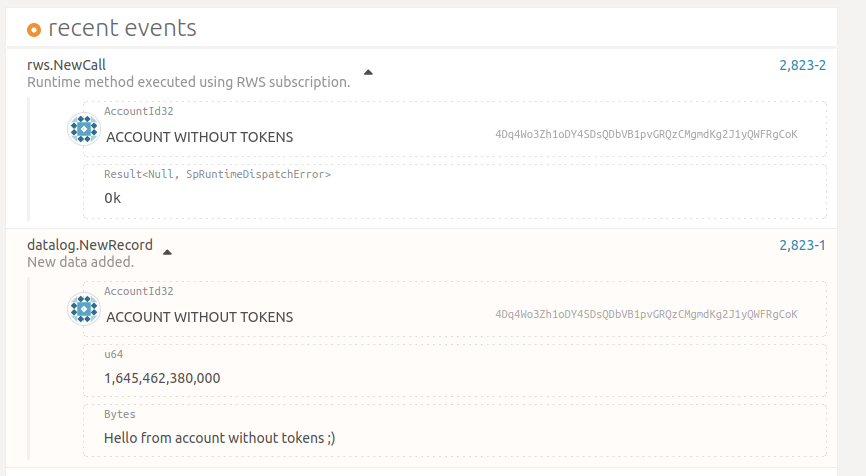
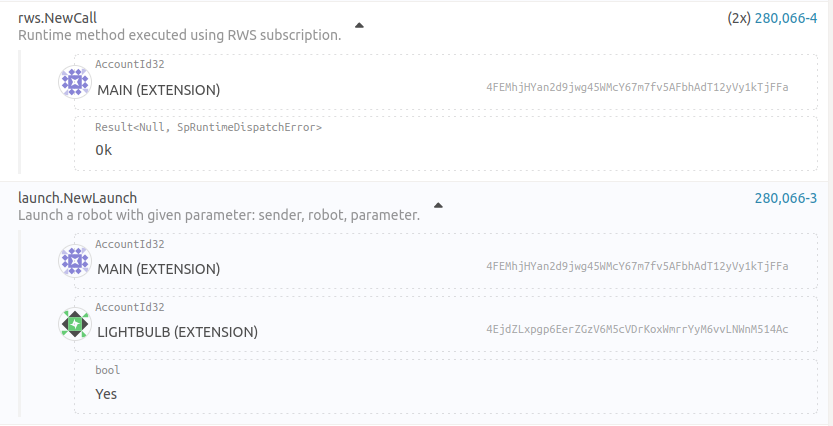
subscription launch

diff --git a/docs/es/subscription-launch.md b/docs/es/subscription-launch.md
@@ -1,0 +1,16 @@
+---
+title: How to Send Launch with Subscription
+contributors: [LoSk-p]
+translated: false
+---
+
+If your address is in devices of any subscription you can send extrinsics with no fee. Lets try to send `launch`.
+
+Go to `Developer/Extrinsics`, choose your account (`MAIN` in the picture) and `rws -> call`. Then in `subscriptionID` field write the subscription's owner address (`SUBSCRIPTION OWNER` in the picture) and in the next field choose `launch -> launch`. In the `robot` field write the address you want to send `launch` transaction to(`LIGHTBULB (EXTENTION)` in the picture) and choose the parameter `Yes` or `No`. Then submit transaction:
+
+![launch](../images/dev-node/launch.png)
+
+
+Now go to `Network/Explorer` and in the `Recent Events` you will see two events `rws.NewCall` and `launch.NewLaunch`:
+
+![events](../images/dev-node/events.png)

diff --git a/docs/ja/subscription-launch.md b/docs/ja/subscription-launch.md
@@ -1,0 +1,16 @@
+---
+title: How to Send Launch with Subscription
+contributors: [LoSk-p]
+translated: false
+---
+
+If your address is in devices of any subscription you can send extrinsics with no fee. Lets try to send `launch`.
+
+Go to `Developer/Extrinsics`, choose your account (`MAIN` in the picture) and `rws -> call`. Then in `subscriptionID` field write the subscription's owner address (`SUBSCRIPTION OWNER` in the picture) and in the next field choose `launch -> launch`. In the `robot` field write the address you want to send `launch` transaction to(`LIGHTBULB (EXTENTION)` in the picture) and choose the parameter `Yes` or `No`. Then submit transaction:
+
+![launch](../images/dev-node/launch.png)
+
+
+Now go to `Network/Explorer` and in the `Recent Events` you will see two events `rws.NewCall` and `launch.NewLaunch`:
+
+![events](../images/dev-node/events.png)

diff --git a/docs/ko/subscription-launch.md b/docs/ko/subscription-launch.md
@@ -1,0 +1,16 @@
+---
+title: How to Send Launch with Subscription
+contributors: [LoSk-p]
+translated: false
+---
+
+If your address is in devices of any subscription you can send extrinsics with no fee. Lets try to send `launch`.
+
+Go to `Developer/Extrinsics`, choose your account (`MAIN` in the picture) and `rws -> call`. Then in `subscriptionID` field write the subscription's owner address (`SUBSCRIPTION OWNER` in the picture) and in the next field choose `launch -> launch`. In the `robot` field write the address you want to send `launch` transaction to(`LIGHTBULB (EXTENTION)` in the picture) and choose the parameter `Yes` or `No`. Then submit transaction:
+
+![launch](../images/dev-node/launch.png)
+
+
+Now go to `Network/Explorer` and in the `Recent Events` you will see two events `rws.NewCall` and `launch.NewLaunch`:
+
+![events](../images/dev-node/events.png)

diff --git a/docs/ru/subscription-launch.md b/docs/ru/subscription-launch.md
@@ -1,0 +1,16 @@
+---
+title: How to Send Launch with Subscription
+contributors: [LoSk-p]
+translated: false
+---
+
+If your address is in devices of any subscription you can send extrinsics with no fee. Lets try to send `launch`.
+
+Go to `Developer/Extrinsics`, choose your account (`MAIN` in the picture) and `rws -> call`. Then in `subscriptionID` field write the subscription's owner address (`SUBSCRIPTION OWNER` in the picture) and in the next field choose `launch -> launch`. In the `robot` field write the address you want to send `launch` transaction to(`LIGHTBULB (EXTENTION)` in the picture) and choose the parameter `Yes` or `No`. Then submit transaction:
+
+![launch](../images/dev-node/launch.png)
+
+
+Now go to `Network/Explorer` and in the `Recent Events` you will see two events `rws.NewCall` and `launch.NewLaunch`:
+
+![events](../images/dev-node/events.png)

diff --git a/docs/en/subscription-launch.md b/docs/en/subscription-launch.md
@@ -1,0 +1,16 @@
+---
+title: How to Send Launch with Subscription
+contributors: [LoSk-p]
+translated: true
+---
+
+If your address is in devices of any subscription you can send extrinsics with no fee. Lets try to send `launch`.
+
+Go to `Developer/Extrinsics`, choose your account (`MAIN` in the picture) and `rws -> call`. Then in `subscriptionID` field write the subscription's owner address (`SUBSCRIPTION OWNER` in the picture) and in the next field choose `launch -> launch`. In the `robot` field write the address you want to send `launch` transaction to(`LIGHTBULB (EXTENTION)` in the picture) and choose the parameter `Yes` or `No`. Then submit transaction:
+
+![launch](../images/dev-node/launch.png)
+
+
+Now go to `Network/Explorer` and in the `Recent Events` you will see two events `rws.NewCall` and `launch.NewLaunch`:
+
+![events](../images/dev-node/events.png)

diff --git a/docs/en/get-subscription.md b/docs/en/get-subscription.md
@@ -36,10 +36,4 @@ Submit the transaction. Now you can check the list of devices in `Chain state` w
 
 ![devices](../images/dev-node/devices.png)
 
-Now lets try to send datalog extrinsic from the account without tokens. Go to `Extrinsic`, choose this account and `rws -> call`. Then in `subscriptionID` field choose the account that bought the subscription and in the next field choose `datalog -> record`. Write anything in the last field and submit the transaction:
-
-![datalog](../images/dev-node/datalog.png)
-
-Now go to `Network/Explorer` and in the `Recent Events` you will see two events `rws.NewCall` and `datalog.NewRecord`:
-
-![events](../images/dev-node/events.png)
+Now you can try to [send launch](/docs/subscription-launch) extrinsic using the subscription.

diff --git a/docs/es/get-subscription.md b/docs/es/get-subscription.md
@@ -36,10 +36,4 @@ Submit the transaction. Now you can check the list of devices in `Chain state` w
 
 ![devices](../images/dev-node/devices.png)
 
-Now lets try to send datalog extrinsic from the account without tokens. Go to `Extrinsic`, choose this account and `rws -> call`. Then in `subscriptionID` field choose the account that bought the subscription and in the next field choose `datalog -> record`. Write anything in the last field and submit the transaction:
-
-![datalog](../images/dev-node/datalog.png)
-
-Now go to `Network/Explorer` and in the `Recent Events` you will see two events `rws.NewCall` and `datalog.NewRecord`:
-
-![events](../images/dev-node/events.png)
+Now you can try to [send launch](/docs/subscription-launch) extrinsic using the subscription.

diff --git a/docs/ja/get-subscription.md b/docs/ja/get-subscription.md
@@ -36,10 +36,4 @@ Submit the transaction. Now you can check the list of devices in `Chain state` w
 
 ![devices](../images/dev-node/devices.png)
 
-Now lets try to send datalog extrinsic from the account without tokens. Go to `Extrinsic`, choose this account and `rws -> call`. Then in `subscriptionID` field choose the account that bought the subscription and in the next field choose `datalog -> record`. Write anything in the last field and submit the transaction:
-
-![datalog](../images/dev-node/datalog.png)
-
-Now go to `Network/Explorer` and in the `Recent Events` you will see two events `rws.NewCall` and `datalog.NewRecord`:
-
-![events](../images/dev-node/events.png)
+Now you can try to [send launch](/docs/subscription-launch) extrinsic using the subscription.

diff --git a/docs/ko/get-subscription.md b/docs/ko/get-subscription.md
@@ -36,10 +36,4 @@ Submit the transaction. Now you can check the list of devices in `Chain state` w
 
 ![devices](../images/dev-node/devices.png)
 
-Now lets try to send datalog extrinsic from the account without tokens. Go to `Extrinsic`, choose this account and `rws -> call`. Then in `subscriptionID` field choose the account that bought the subscription and in the next field choose `datalog -> record`. Write anything in the last field and submit the transaction:
-
-![datalog](../images/dev-node/datalog.png)
-
-Now go to `Network/Explorer` and in the `Recent Events` you will see two events `rws.NewCall` and `datalog.NewRecord`:
-
-![events](../images/dev-node/events.png)
+Now you can try to [send launch](/docs/subscription-launch) extrinsic using the subscription.

diff --git a/docs/ru/get-subscription.md b/docs/ru/get-subscription.md
@@ -36,10 +36,4 @@ Submit the transaction. Now you can check the list of devices in `Chain state` w
 
 ![devices](../images/dev-node/devices.png)
 
-Now lets try to send datalog extrinsic from the account without tokens. Go to `Extrinsic`, choose this account and `rws -> call`. Then in `subscriptionID` field choose the account that bought the subscription and in the next field choose `datalog -> record`. Write anything in the last field and submit the transaction:
-
-![datalog](../images/dev-node/datalog.png)
-
-Now go to `Network/Explorer` and in the `Recent Events` you will see two events `rws.NewCall` and `datalog.NewRecord`:
-
-![events](../images/dev-node/events.png)
+Now you can try to [send launch](/docs/subscription-launch) extrinsic using the subscription.
